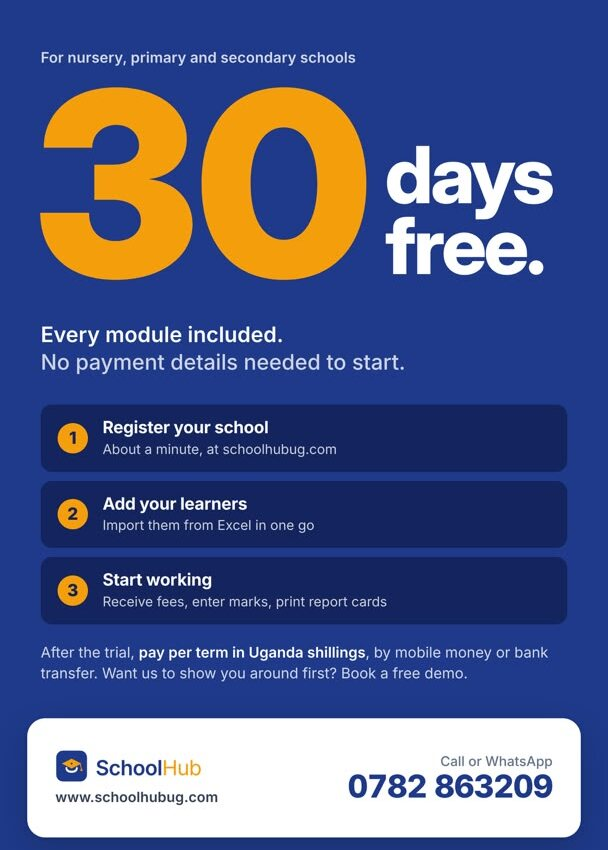
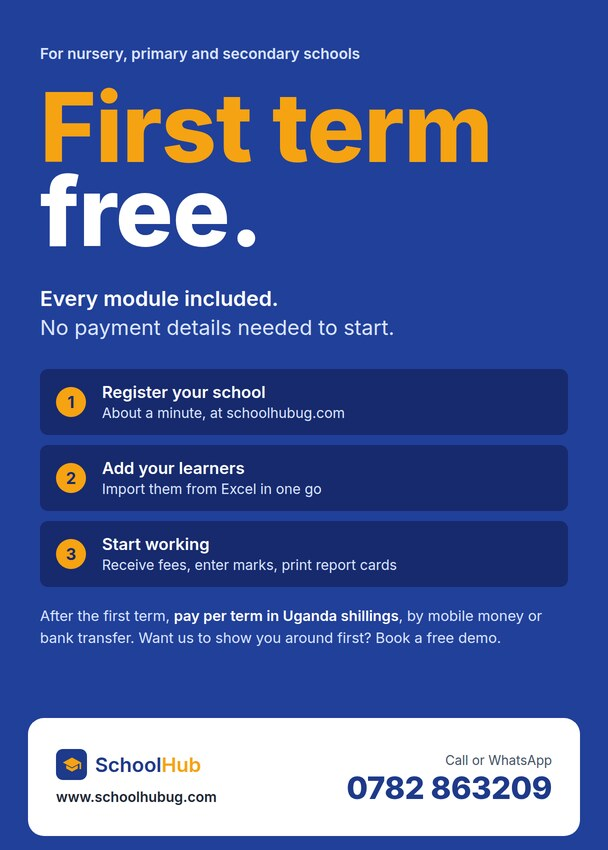
Sign-in: First term free poster; Windows app leaves out website-only links
Claude-Session: https://claude.ai/code/session_01F8zZZK9xVNrKWwDNGHiypa

diff --git a/resources/views/components/auth-shell.blade.php b/resources/views/components/auth-shell.blade.php
@@ -240,6 +240,11 @@
                         ['images/site/poster-payroll.jpg', 'PAYE, NSSF and LST worked out for you: the month\'s payroll, payslips and the NSSF schedule.'],
                         ['images/site/poster-free-trial.jpg', 'Your first term free, every module included: register your school, add your learners and start working.'],
                     ];
+
+                    // The Windows app has no registration at schoolhubug.com to advertise.
+                    if (\App\Support\Edition::isDesktop()) {
+                        array_pop($posters);
+                    }
                 @endphp
                 <figure class="sha-posters"
                     x-data="{
@@ -277,10 +282,12 @@
     <main class="sha-main">
         <div class="sha-topline">
             <a href="{{ url('/') }}" class="sha-logo-mobile"><img src="{{ asset('images/schoolhub-logo-sidebar.svg') }}" alt="SchoolHub"></a>
-            <a href="{{ url('/') }}" class="sha-back">
-                <svg viewBox="0 0 20 20" fill="currentColor" aria-hidden="true"><path fill-rule="evenodd" d="M17 10a.75.75 0 0 1-.75.75H5.612l4.158 3.96a.75.75 0 1 1-1.04 1.08l-5.5-5.25a.75.75 0 0 1 0-1.08l5.5-5.25a.75.75 0 1 1 1.04 1.08L5.612 9.25H16.25A.75.75 0 0 1 17 10Z" clip-rule="evenodd"/></svg>
-                Back to home
-            </a>
+            @unless (\App\Support\Edition::isDesktop())
+                <a href="{{ url('/') }}" class="sha-back">
+                    <svg viewBox="0 0 20 20" fill="currentColor" aria-hidden="true"><path fill-rule="evenodd" d="M17 10a.75.75 0 0 1-.75.75H5.612l4.158 3.96a.75.75 0 1 1-1.04 1.08l-5.5-5.25a.75.75 0 0 1 0-1.08l5.5-5.25a.75.75 0 1 1 1.04 1.08L5.612 9.25H16.25A.75.75 0 0 1 17 10Z" clip-rule="evenodd"/></svg>
+                    Back to home
+                </a>
+            @endunless
         </div>
 
         <div @class(['sha-card', 'sha-card-wide' => $wide])>

diff --git a/resources/views/filament/auth/login.blade.php b/resources/views/filament/auth/login.blade.php
@@ -16,13 +16,18 @@
         <span>Private and secure.</span>
     </a>
 
-    @unless ($isPlatform)
+    @if (\App\Support\Edition::isDesktop())
+        <div class="sha-note">
+            <svg fill="none" stroke="currentColor" stroke-width="1.8" viewBox="0 0 24 24" aria-hidden="true"><path stroke-linecap="round" stroke-linejoin="round" d="M15.75 5.25a3 3 0 0 1 3 3m3 0a6 6 0 0 1-7.03 5.91c-.57-.1-1.17.03-1.58.44L10.5 17.25H8.25v2.25H6v2.25H2.25v-2.82c0-.6.24-1.17.66-1.59l5.7-5.7c.41-.41.54-1.01.44-1.58A6 6 0 1 1 21.75 8.25Z" /></svg>
+            <span><strong>Forgot your password?</strong> Ask the school administrator to set a new one (Users). Administrator? Call or WhatsApp SchoolHub on {{ config('contact.phone') }}.</span>
+        </div>
+    @elseif (! $isPlatform)
         {{-- Shown on computers only; the phone layout leaves it out. --}}
         <div class="sha-note sha-note-parents">
             <svg fill="none" stroke="currentColor" stroke-width="1.8" viewBox="0 0 24 24" aria-hidden="true"><path stroke-linecap="round" stroke-linejoin="round" d="M10.5 1.5H8.25A2.25 2.25 0 006 3.75v16.5a2.25 2.25 0 002.25 2.25h7.5A2.25 2.25 0 0018 20.25V3.75a2.25 2.25 0 00-2.25-2.25H13.5m-3 0V3h3V1.5m-3 0h3m-3 18.75h3" /></svg>
             <span><strong>Parents:</strong> sign in with your phone number and the PIN the school sent you. Forgot your PIN? Ask the school office to send you a new one.</span>
         </div>
-    @endunless
+    @endif
 
     @if (filament()->hasRegistration())
         <p class="sha-alt-register">

diff --git a/app/Providers/Filament/AppPanelProvider.php b/app/Providers/Filament/AppPanelProvider.php
@@ -94,7 +94,9 @@ class AppPanelProvider extends PanelProvider
             // School Admin. Not in the Windows app: its one school is set up
             // on first run (DesktopSetupController).
             ->registration(Edition::isDesktop() ? null : RegisterSchool::class)
-            ->passwordReset(RequestPasswordReset::class, ResetPassword::class)
+            // Reset links go by email: not in the Windows app, where the
+            // administrator sets a new password for staff (login page note).
+            ->passwordReset(Edition::isDesktop() ? null : RequestPasswordReset::class, Edition::isDesktop() ? null : ResetPassword::class)
 
             // Public landing page at the site root. Registered here (not in
             // routes/web.php) so Filament sees "/" is taken and sends

diff --git a/tests/Feature/DesktopEditionTest.php b/tests/Feature/DesktopEditionTest.php
@@ -87,6 +87,19 @@ it('has no school registration', function () {
     expect((new AppPanelProvider(app()))->panel(Panel::make())->hasRegistration())->toBeTrue();
 });
 
+it('shows a sign-in page without the website\'s links or email password resets', function () {
+    setUpSchool();
+    $this->post('/logout');
+
+    expect((new AppPanelProvider(app()))->panel(Panel::make())->hasPasswordReset())->toBeFalse();
+
+    $this->get('/login')->assertOk()
+        ->assertSee('Ask the school administrator to set a new one')
+        ->assertDontSee('Back to home')
+        ->assertDontSee('poster-free-trial.jpg')
+        ->assertDontSee('Parents:');
+});
+
 it('keeps the setup page out of the online edition', function () {
     config(['app.edition' => 'server']);
 

diff --git a/docs/changelog.md b/docs/changelog.md
@@ -6,6 +6,11 @@ folded into the change they belong to. Add an entry with every release.
 
 ## 27 October 2026
 
+- **Sign-in page:** the free-trial poster says "First term free" (it
+  still said 30 days). In the Windows app the page leaves out what only
+  works online (Back to home, the free-trial poster, emailed password
+  resets, the note for parents) and says to ask the administrator for a
+  new password.
 - **The Windows download is back on the website**, offering SchoolHub
   for Windows 1.2.0 (short licence codes, sync with the online account).
 - **The Windows app syncs with the school's online account, both ways.**
